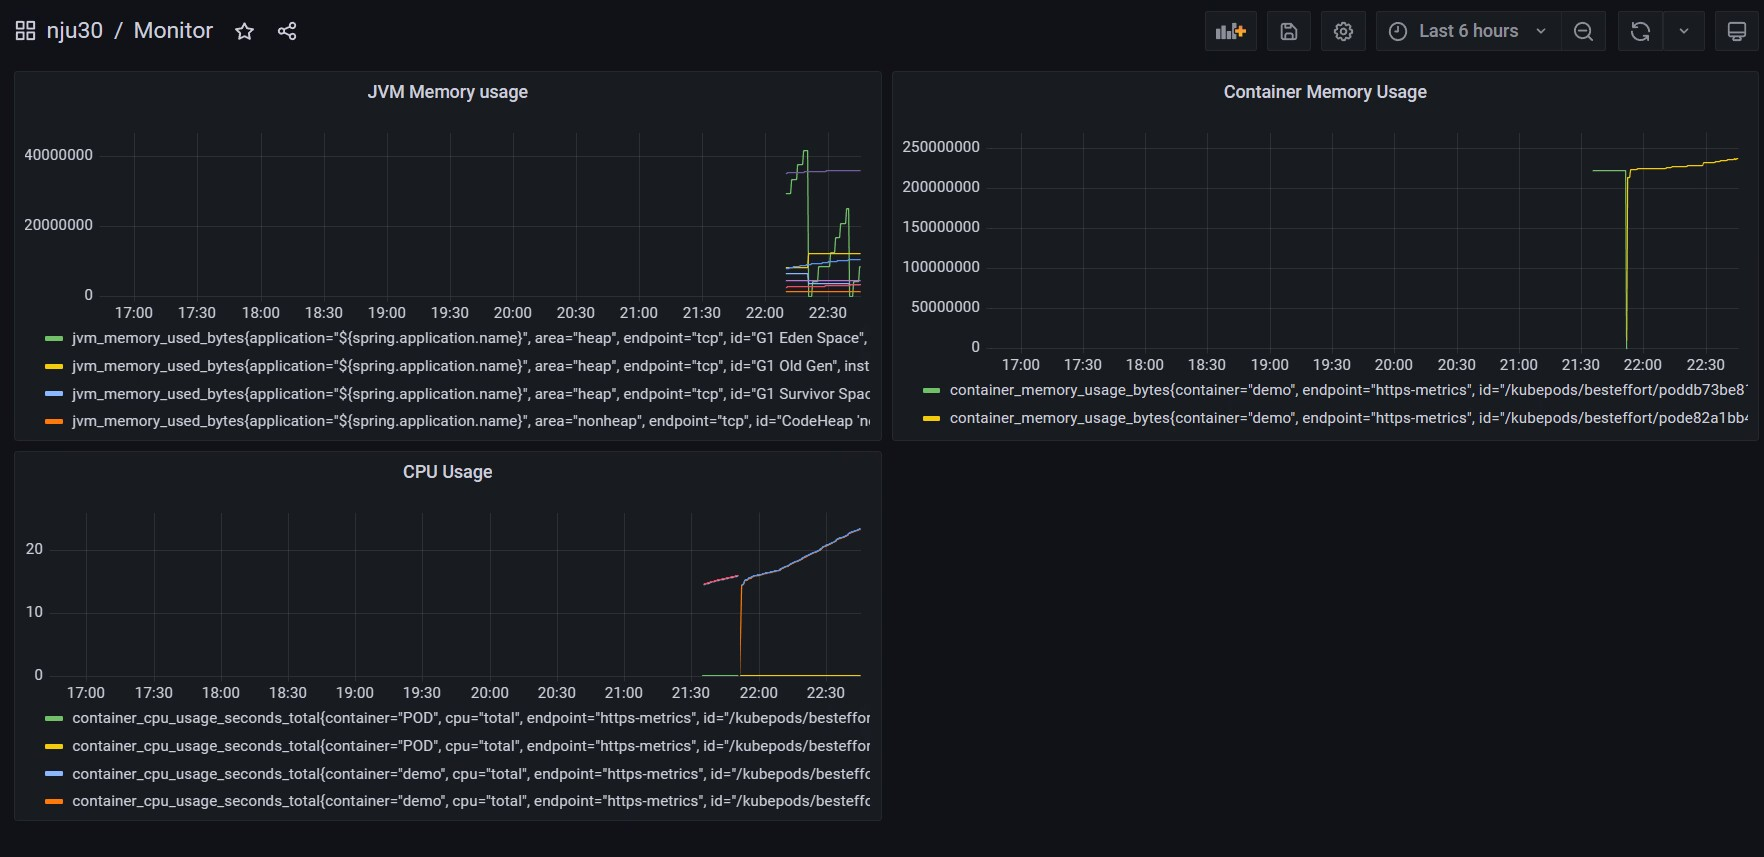
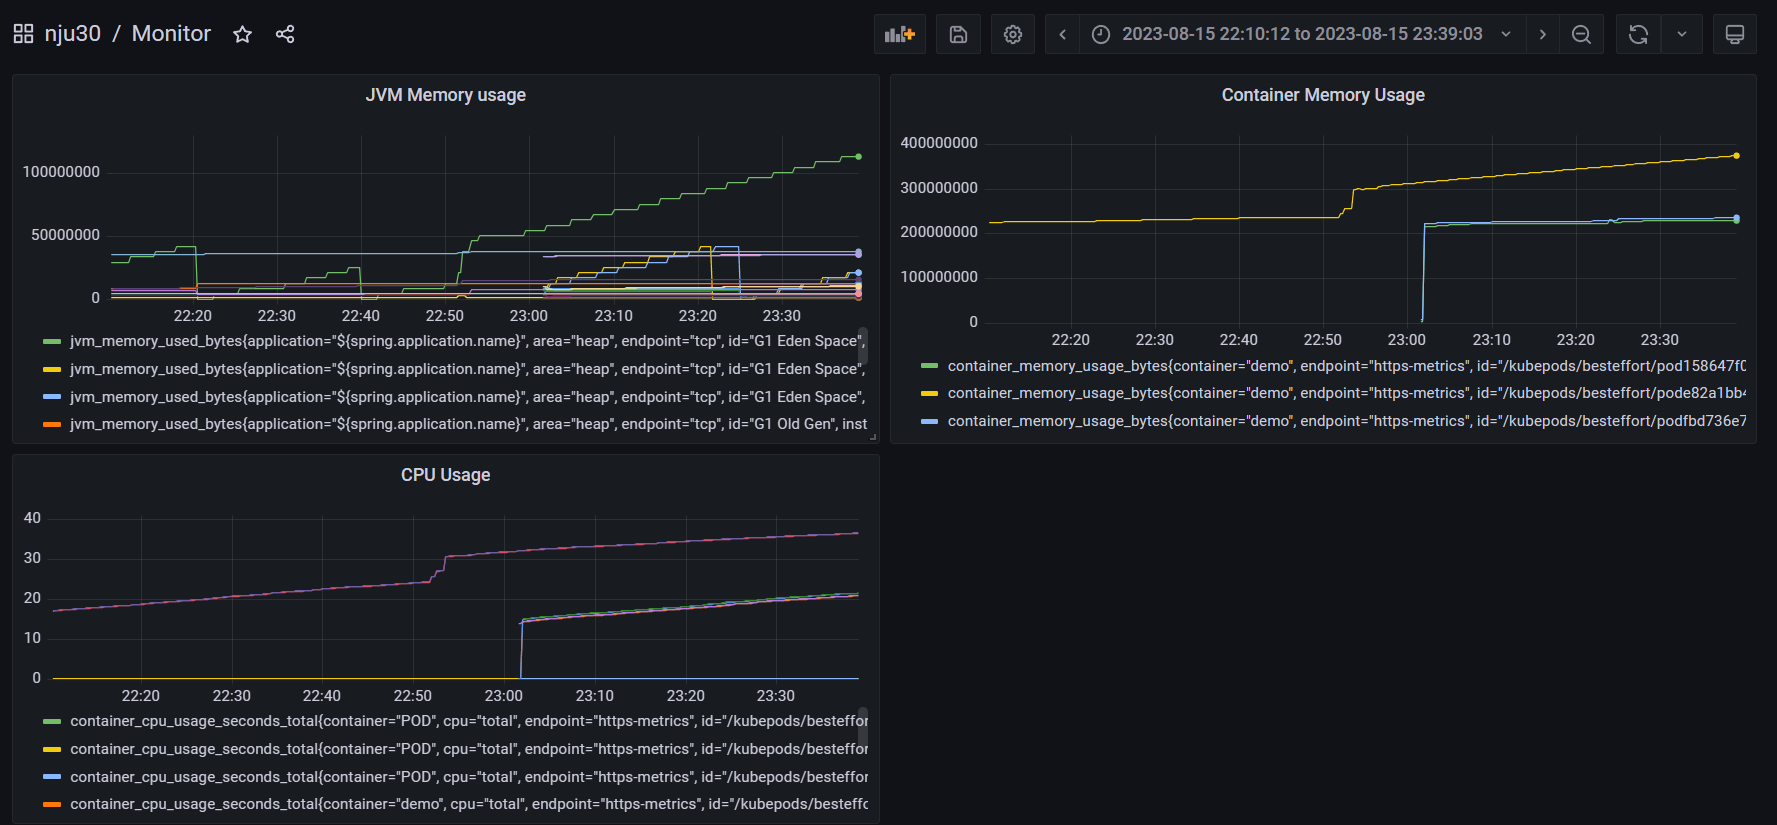
docs:granafa和压测

diff --git a/README.md b/README.md
@@ -337,9 +337,10 @@ spec:
 
 > http://172.29.4.18:31237/d/vgo81664k/monitor?orgId=1
 
-![](img/3.2/monitor.jpg)
+![monitor](img/3.2/monitor.png)
+
 1. JVM usage 容器jvm使用情况
-![](img/3.2/jvm.png)
+    ![](img/3.2/jvm.png)
 
 2. container cpu usage 容器CPU使用情况
 
@@ -352,7 +353,13 @@ spec:
 ### 2.8 压测并观察监控数据
 ![](img/3.3/1.jpg)
 ![](img/3.3/2.jpg)
+
+![](img/3.3/granafa.png)
+
+观察到，在压测后，各项资源占用率都明显上升
+
 ### 2.9 手动扩容并观察监控数据
+
 扩容前pod数为1:
 
 ![](img/3.1/2.png)
@@ -383,3 +390,4 @@ spec:
 
 扩容过后的监控数据：
 ![](img/3.3/change_monitor.png)
+
